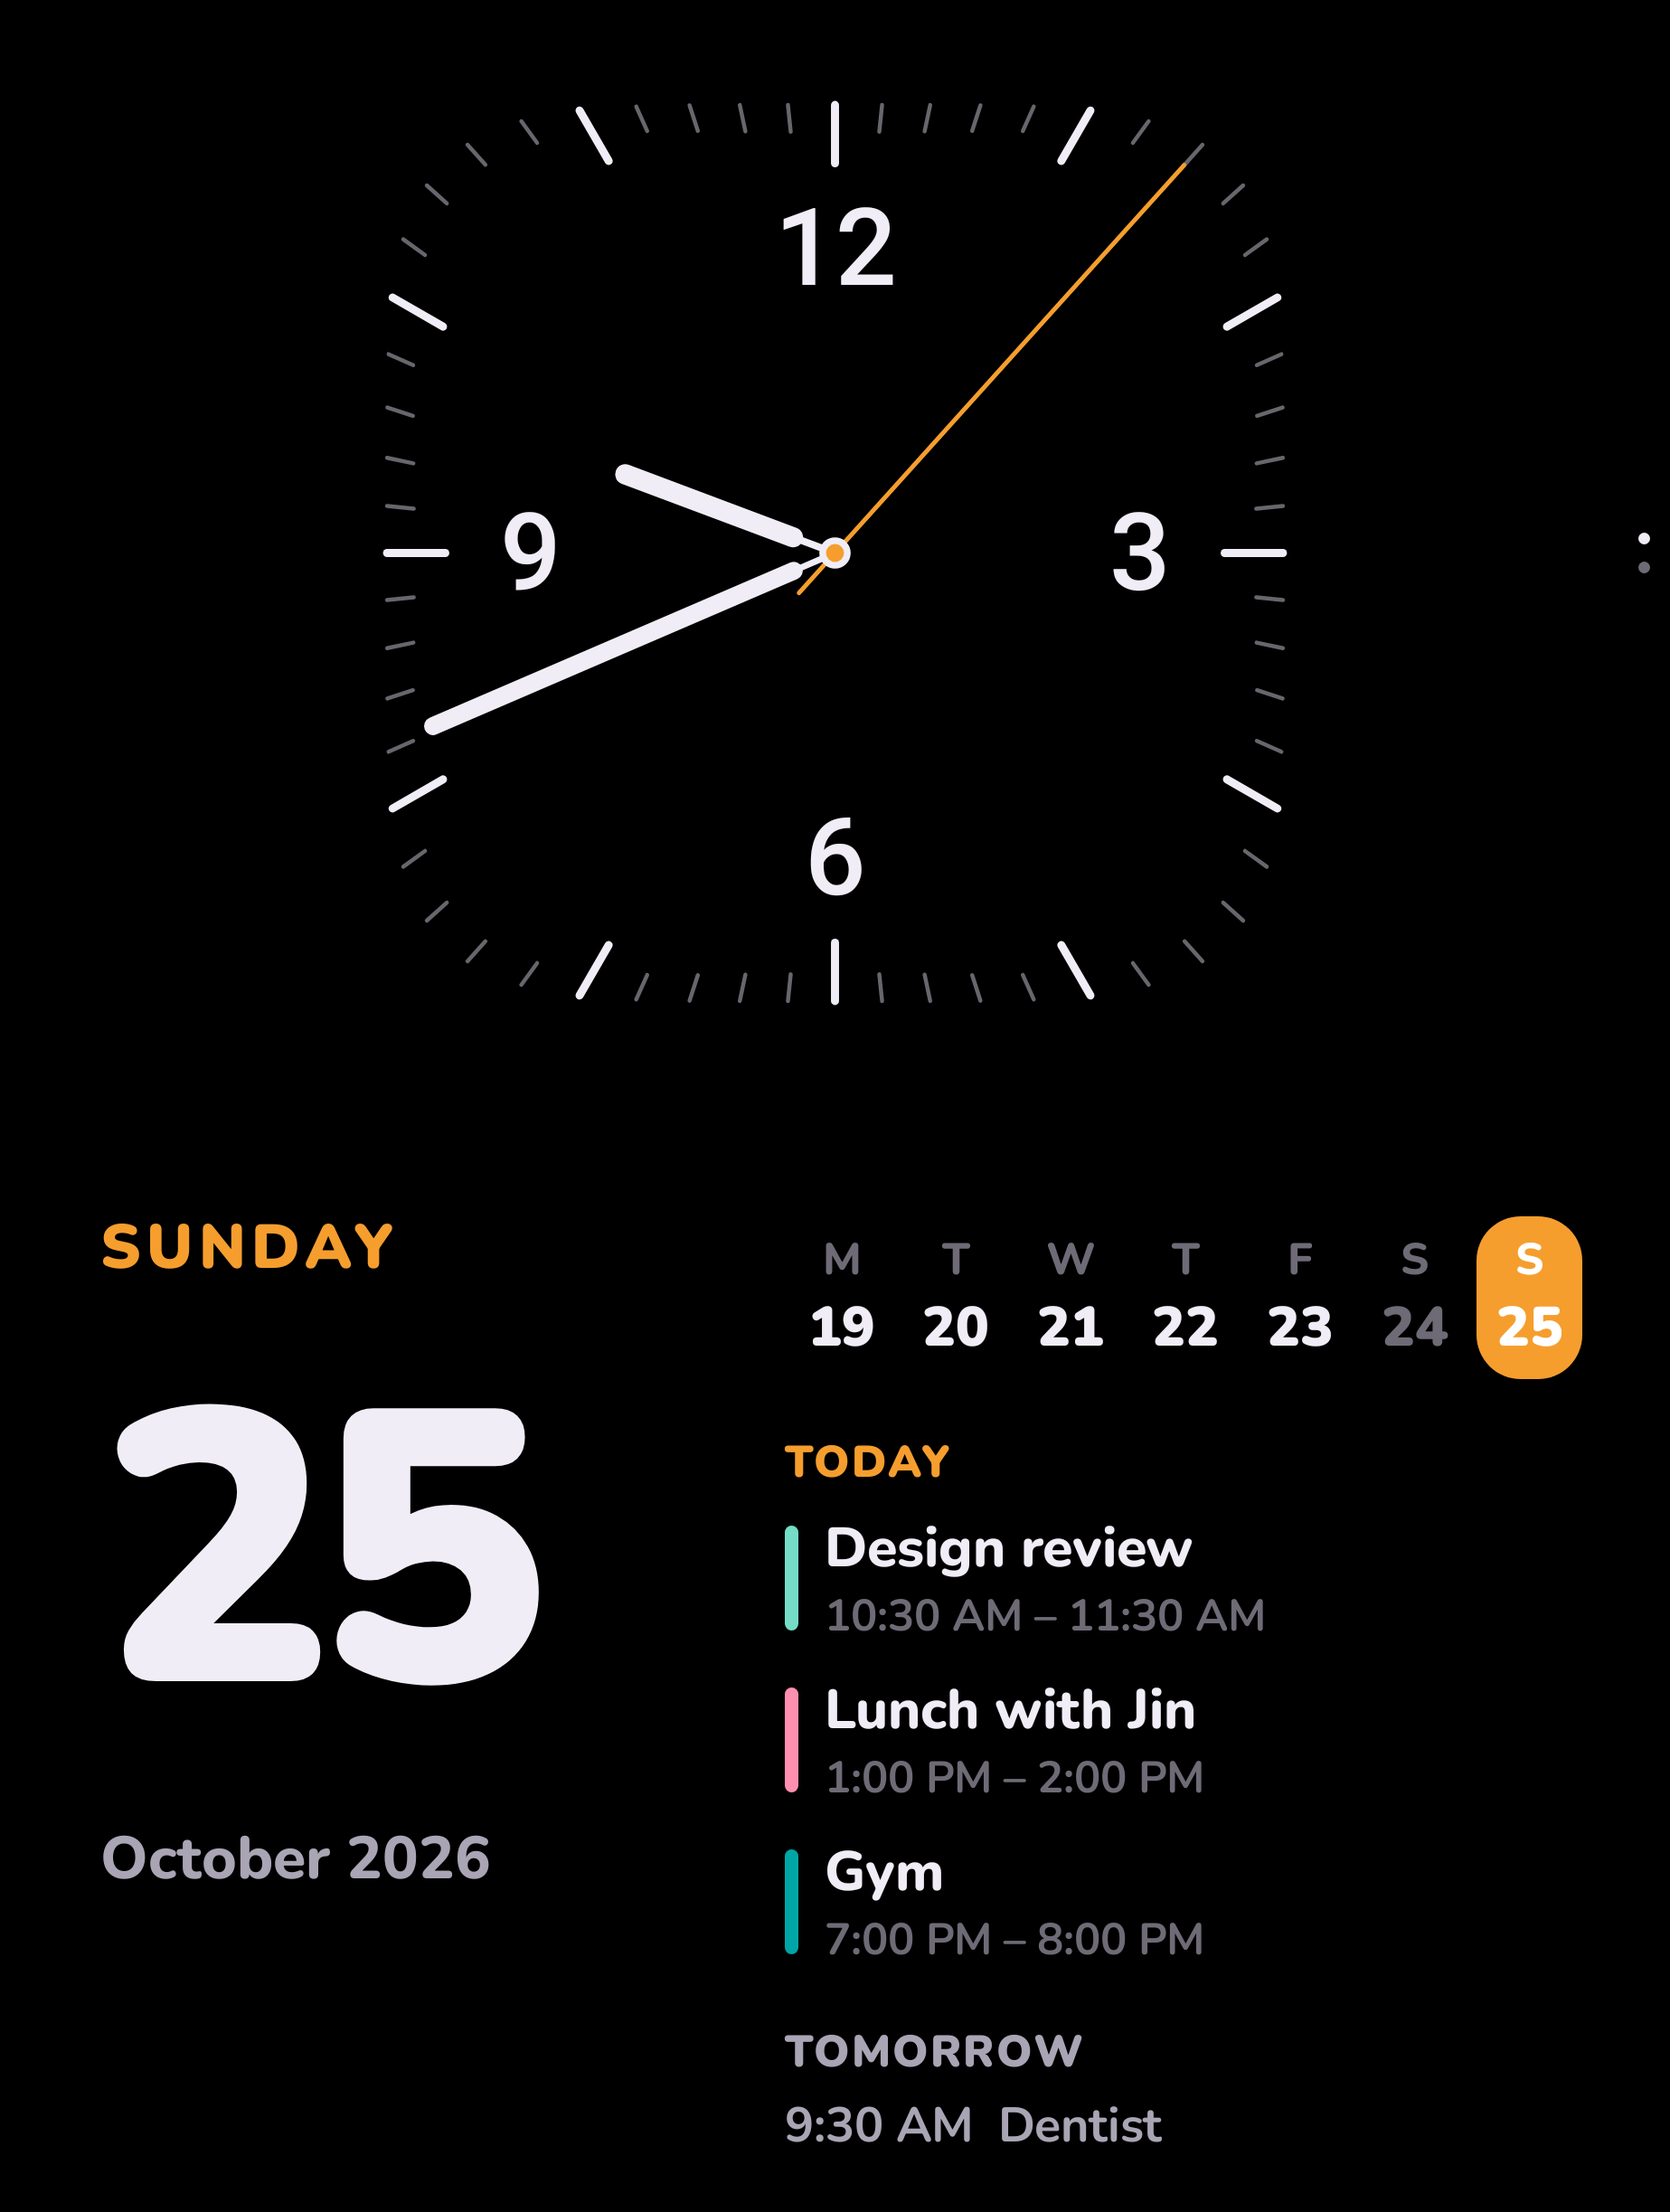
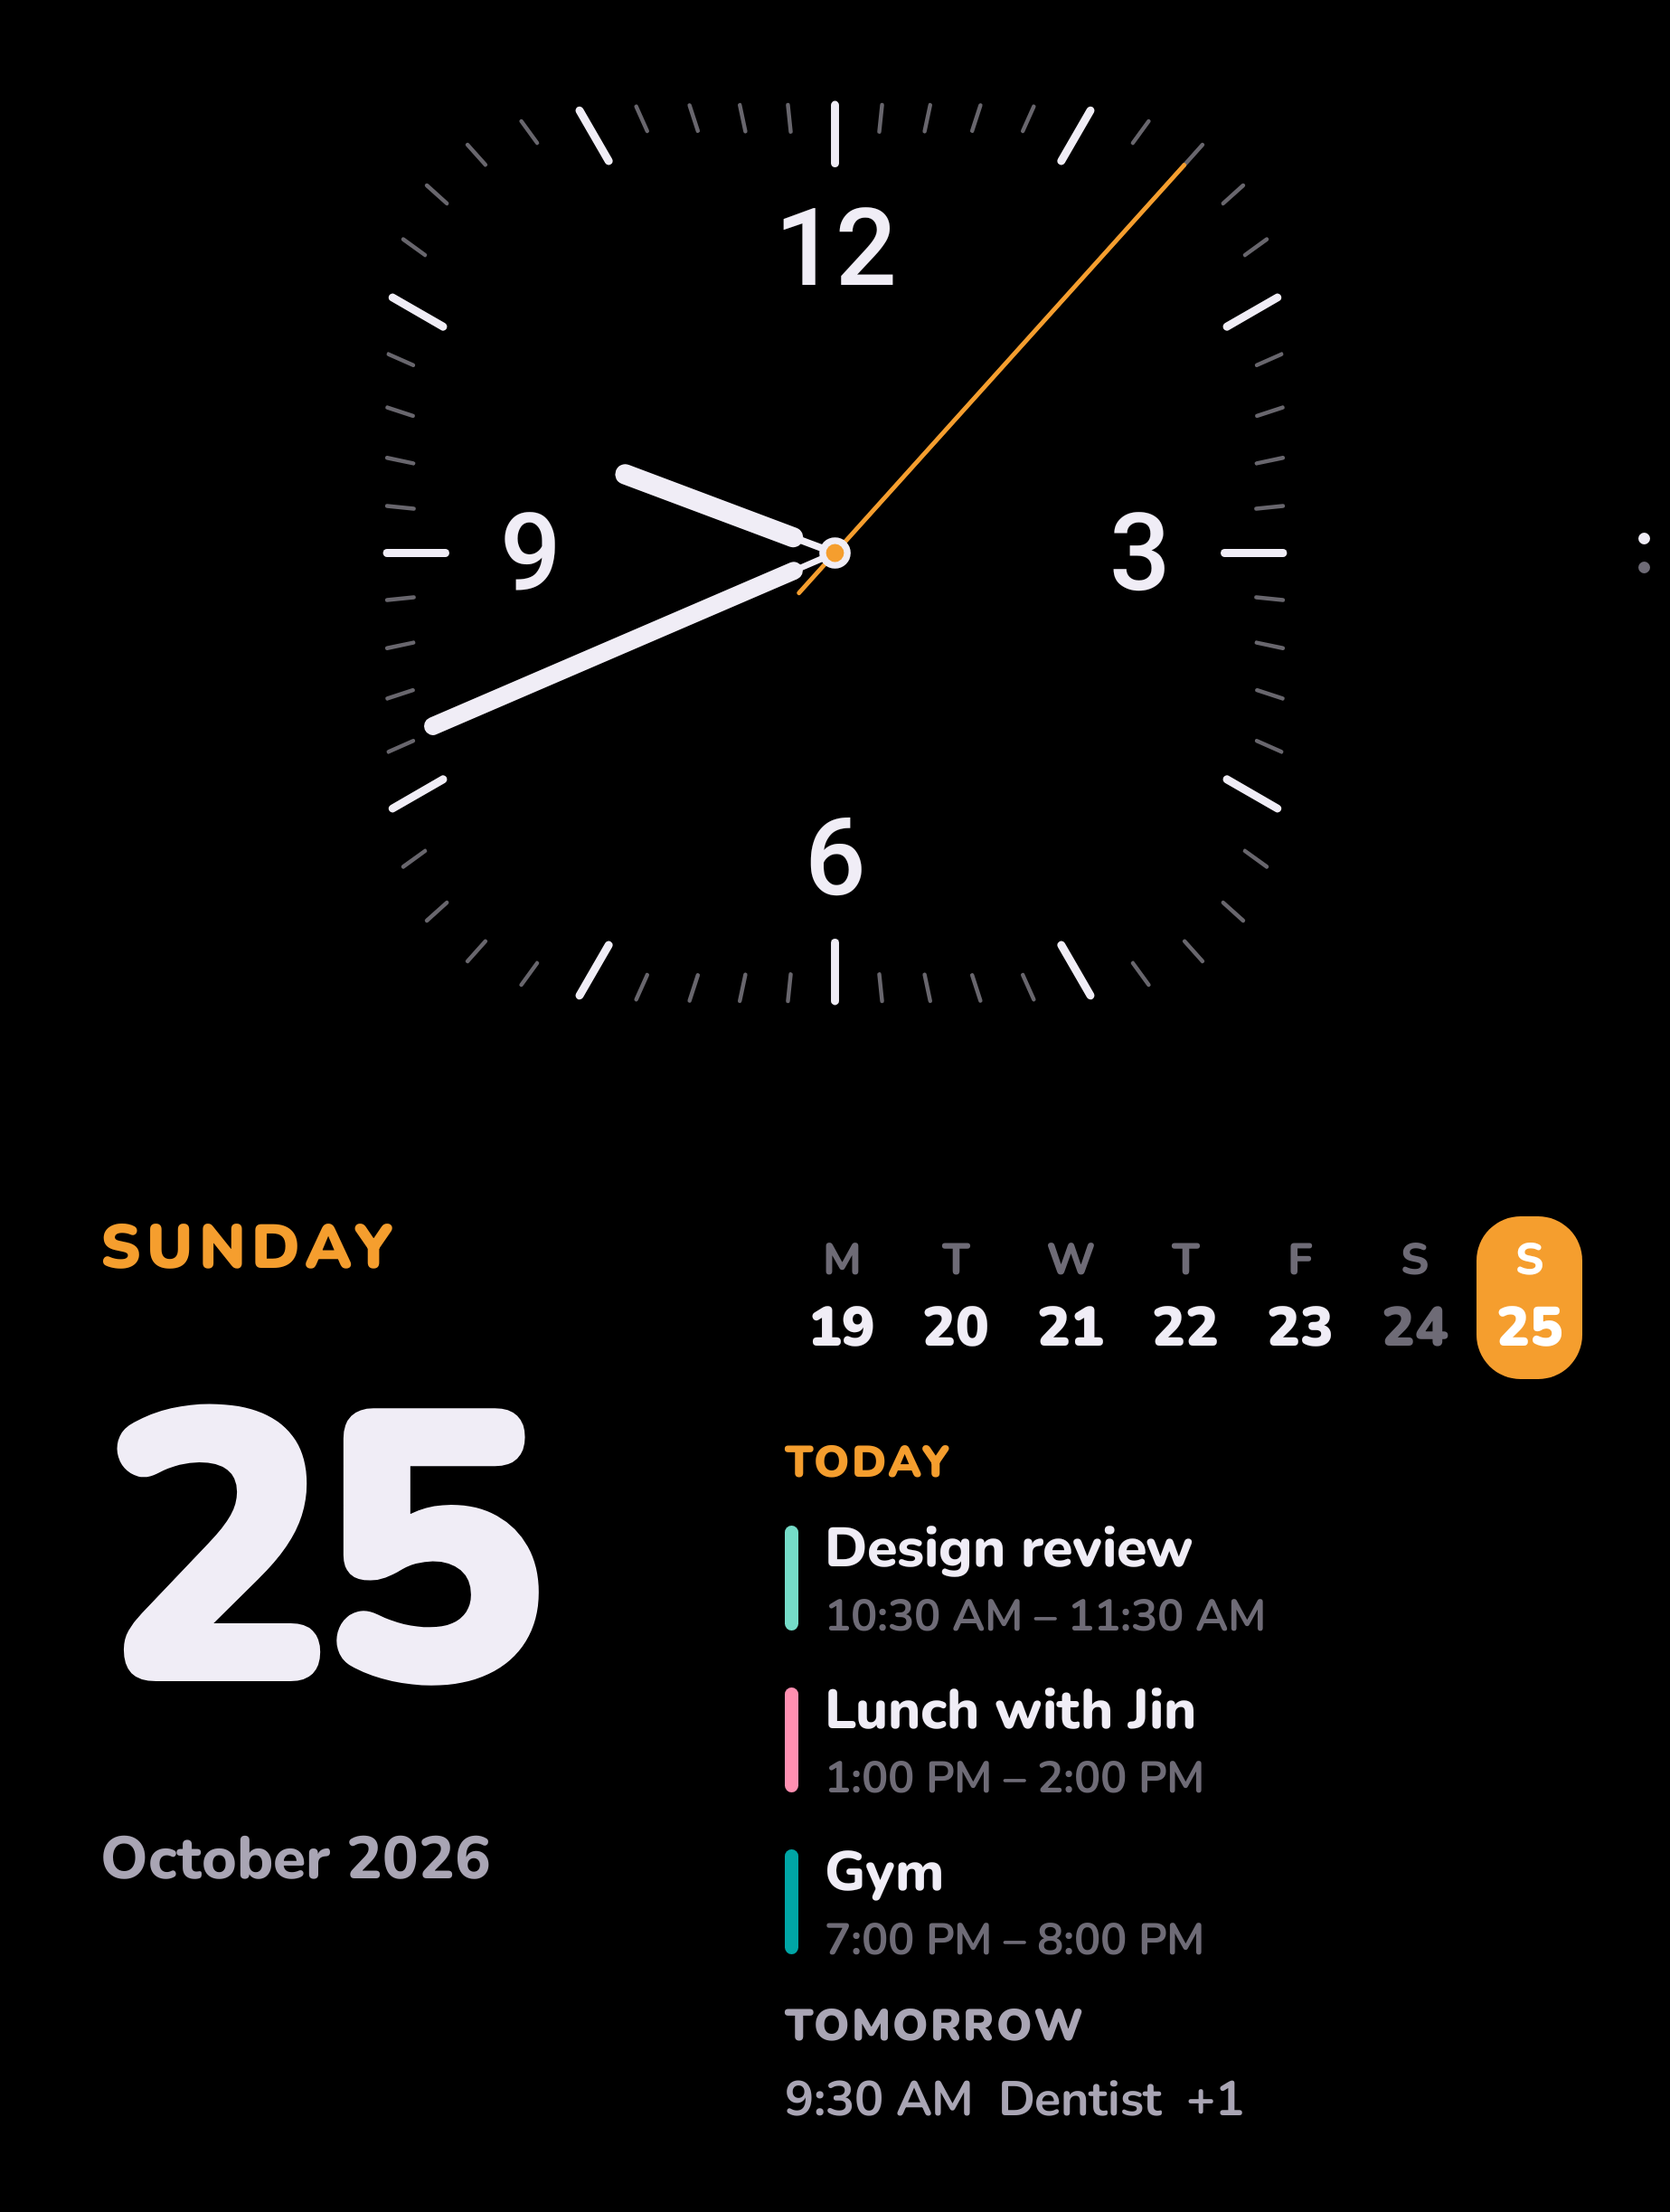
일정 칸: 실제 글꼴 높이로 세어 마지막 줄이 잘리거나 빠지지 않게
- 줄 높이를 글자 크기 × 1.12로 잡았으나 Nunito는 실제 1.36배라 마지막 줄이 화면 밖으로 밀림
- 오늘 일정 우선, 내일은 제목과 한 줄 보장, 못 보여준 일정은 +N(내일은 자리가 없으면 줄 끝에)
- 마지막 일정 뒤 간격 제거, 계산을 fitAgenda로 분리하고 단위 테스트 8개
- 일정이 나오는 화면 스냅숏 7장 갱신

Changed region(s): [[0.4629, 0.9011, 0.7407, 0.9632]]

diff --git a/app/src/main/java/com/marksnd/foldstandby/ui/StyleFaces.kt b/app/src/main/java/com/marksnd/foldstandby/ui/StyleFaces.kt
@@ -243,46 +243,105 @@ private fun ColumnScope.AgendaColumn(today: LocalDate, agenda: AgendaState, s: A
         MonthGrid(today, Modifier.fillMaxWidth().weight(1f))
         return
     }
-    // 남은 높이 안에 들어가게 센다: 내일 칸을 먼저 잡아 두고, 오늘 일정은 남는 만큼만 보여주고 나머지는 +N.
+    // 남은 높이 안에 들어가게 센다. 내일은 제목과 한 줄을 늘 잡아 두고, 남는 높이는 오늘 일정에 먼저 준다.
+    // 못 보여준 일정은 숨기지 않고 +N으로 알린다.
     BoxWithConstraints(Modifier.fillMaxWidth().weight(1f)) {
-        val labelH = s.label * 1.15f
-        val eventH = s.title * 1.12f + s.sub * 1.12f + s.sub * 0.6f
-        val lineH = s.sub * 1.1f * 1.12f + s.sub * 0.25f
-        val moreH = s.sub * 1.12f + s.sub * 0.25f
         val today = timedFirst(agenda.events)
         val tomorrow = timedFirst(agenda.tomorrow)
-        val tShow = minOf(TOMORROW_MAX, tomorrow.size)
-        val tomorrowH = if (tomorrow.isEmpty()) 0f
-        else (s.label * 0.6f + labelH + lineH * tShow + (if (tomorrow.size > tShow) moreH else s.sub * 0f)) / s.sub
-        val roomForToday = (maxHeight - labelH - s.label * 0.4f) / s.sub - tomorrowH
-        var fit = (roomForToday / (eventH / s.sub)).toInt()
-        if (today.size > fit) fit = ((roomForToday - moreH / s.sub) / (eventH / s.sub)).toInt()
-        val todayShow = minOf(today.size, todayMax, fit.coerceAtLeast(1))
+        val fit = fitAgenda(
+            room = maxHeight.value,
+            todayCount = today.size,
+            tomorrowCount = tomorrow.size,
+            todayMax = todayMax,
+            h = AgendaHeights(
+                todayHead = (s.label * ROUNDED_LINE + s.label * 0.4f).value,
+                empty = (s.title * 0.9f * ROUNDED_LINE).value,
+                event = (s.title * ROUNDED_LINE + s.sub * ROUNDED_LINE).value,
+                eventGap = (s.sub * 0.6f).value,
+                more = (s.sub * ROUNDED_LINE + s.sub * 0.25f).value,
+                tomorrowHead = (s.label * 0.6f + s.label * ROUNDED_LINE).value,
+                line = (s.sub * 1.1f * ROUNDED_LINE + s.sub * 0.25f).value,
+            ),
+        )
         Column {
             Label(if (korean) "오늘" else "TODAY", s.label, p.accent, weight = FontWeight.Black, family = Rounded, letterSpacing = 0.06.em)
             Spacer(Modifier.height(s.label * 0.4f))
             if (today.isEmpty()) {
                 Label(if (korean) "남은 일정 없음" else "No more events", s.title * 0.9f, p.dim, weight = FontWeight.ExtraBold, family = Rounded)
             }
-            today.take(todayShow).forEach { e ->
+            today.take(fit.todayShow).forEachIndexed { i, e ->
+                // 일정 사이에만 간격을 둔다(마지막 일정 뒤에는 +N이나 내일 제목이 제 간격을 갖고 온다).
+                if (i > 0) Spacer(Modifier.height(s.sub * 0.6f))
                 EventLine(e, s, korean)
-                Spacer(Modifier.height(s.sub * 0.6f))
             }
-            MoreCount(today.size - todayShow, s, korean)
+            MoreCount(today.size - fit.todayShow, s, korean)
             if (tomorrow.isNotEmpty()) {
                 Spacer(Modifier.height(s.label * 0.6f))
                 Label(if (korean) "내일" else "TOMORROW", s.label, p.secondary, weight = FontWeight.Black, family = Rounded, letterSpacing = 0.06.em)
-                tomorrow.take(tShow).forEach { e ->
+                val hidden = tomorrow.size - fit.tomorrowShow
+                tomorrow.take(fit.tomorrowShow).forEachIndexed { i, e ->
                     val time = if (e.allDay) (if (korean) "종일" else "All day") else eventTime(e.begin, korean)
-                    Label("$time  ${e.title}", s.sub * 1.1f, p.secondary, Modifier.padding(top = s.sub * 0.25f), weight = FontWeight.Bold, family = Rounded)
+                    // +N 줄을 둘 높이가 없으면 마지막 줄 끝에 붙인다.
+                    val inlineMore = if (i == fit.tomorrowShow - 1 && hidden > 0 && !fit.tomorrowMoreLine) "  +$hidden" else ""
+                    Label("$time  ${e.title}$inlineMore", s.sub * 1.1f, p.secondary, Modifier.padding(top = s.sub * 0.25f), weight = FontWeight.Bold, family = Rounded)
                 }
-                MoreCount(tomorrow.size - tShow, s, korean)
+                if (fit.tomorrowMoreLine) MoreCount(hidden, s, korean)
             }
         }
     }
 }
 
+/** 일정 칸 각 부분의 높이(dp). */
+internal data class AgendaHeights(
+    val todayHead: Float,
+    val empty: Float,
+    val event: Float,
+    val eventGap: Float,
+    val more: Float,
+    val tomorrowHead: Float,
+    val line: Float,
+)
+
+/** 오늘 [todayShow]개, 내일 [tomorrowShow]줄을 보여주고, 내일의 나머지는 [tomorrowMoreLine]이면 따로 한 줄, 아니면 마지막 줄 끝에 +N. */
+internal data class AgendaFit(val todayShow: Int, val tomorrowShow: Int, val tomorrowMoreLine: Boolean)
+
+/**
+ * [room] 높이 안에 들어갈 만큼 센다.
+ * 1. 내일 일정이 있으면 내일 제목과 한 줄을 먼저 잡는다.
+ * 2. 남는 높이를 오늘 일정에 준다(최대 [todayMax]개). 다 못 보여주면 +N 줄 자리도 뺀다. 오늘 일정이 있으면 적어도 하나는 보여준다.
+ * 3. 그래도 남으면 내일 둘째 줄([TOMORROW_MAX]까지), 그다음 내일 +N 줄.
+ */
+internal fun fitAgenda(room: Float, todayCount: Int, tomorrowCount: Int, todayMax: Int, h: AgendaHeights): AgendaFit {
+    var left = room - h.todayHead
+    if (tomorrowCount > 0) left -= h.tomorrowHead + h.line
+    var todayShow = 0
+    if (todayCount == 0) {
+        left -= h.empty
+    } else {
+        val limit = minOf(todayCount, todayMax)
+        // n개는 일정 n개 + 사이 간격 n-1개
+        fun fits(space: Float) = ((space + h.eventGap) / (h.event + h.eventGap)).toInt().coerceAtLeast(0)
+        todayShow = minOf(limit, fits(left))
+        if (todayShow < todayCount) todayShow = minOf(todayShow, fits(left - h.more))
+        todayShow = todayShow.coerceAtLeast(1)
+        left -= h.event * todayShow + h.eventGap * (todayShow - 1) + if (todayShow < todayCount) h.more else 0f
+    }
+    var tomorrowShow = if (tomorrowCount > 0) 1 else 0
+    while (tomorrowShow < minOf(TOMORROW_MAX, tomorrowCount) && left >= h.line) {
+        left -= h.line
+        tomorrowShow++
+    }
+    val moreLine = tomorrowCount > tomorrowShow && left >= h.more
+    return AgendaFit(todayShow, tomorrowShow, moreLine)
+}
+
 private const val TOMORROW_MAX = 2
+
+/**
+ * 둥근 글꼴(Nunito) 한 줄이 실제로 차지하는 높이 ÷ 글자 크기. Label의 줄 높이(1.12)보다 글꼴 자체 높이
+ * (ascent 1.011 + descent 0.353)가 커서 글꼴 높이를 따른다. 화면 스냅숏에서 잰 값 1.36에 여유를 조금 둔다.
+ */
+private const val ROUNDED_LINE = 1.37f
 
 /** 시간이 있는 일정을 시작 순으로 먼저, 종일 일정은 뒤로. 종일 일정이 많아도 약속이 밀려나지 않게. */
 private fun timedFirst(events: List<AgendaEvent>) = events.sortedWith(compareBy({ it.allDay }, { it.begin }))

diff --git a/app/src/test/java/com/marksnd/foldstandby/ui/AgendaFitTest.kt b/app/src/test/java/com/marksnd/foldstandby/ui/AgendaFitTest.kt
@@ -1,0 +1,38 @@
+package com.marksnd.foldstandby.ui
+
+import org.junit.Assert.assertEquals
+import org.junit.Test
+
+class AgendaFitTest {
+    // 쉬운 셈을 위해 단위 높이: 오늘 제목 10, 일정 18 + 사이 간격 2(일정 n개 = 20n - 2), +N 5, 내일 제목 10, 내일 한 줄 8, 빈 오늘 10
+    private val h = AgendaHeights(todayHead = 10f, empty = 10f, event = 18f, eventGap = 2f, more = 5f, tomorrowHead = 10f, line = 8f)
+
+    @Test fun everythingFits() =
+        assertEquals(AgendaFit(3, 2, false), fitAgenda(100f, 3, 2, 4, h)) // 10 + 58 + 10 + 16 = 94
+
+    @Test fun todayComesBeforeTomorrowsSecondLine() =
+        // 10 + 10 + 8 = 28 잡고 남은 60: 오늘 3개(58), 내일 둘째 줄 자리 없음 → 마지막 줄 끝에 +1
+        assertEquals(AgendaFit(3, 1, false), fitAgenda(88f, 3, 2, 4, h))
+
+    @Test fun noGapAfterLastEvent() =
+        // 남은 58이면 사이 간격만 세어 오늘 3개가 딱 들어간다
+        assertEquals(AgendaFit(3, 1, false), fitAgenda(86f, 3, 2, 4, h))
+
+    @Test fun hiddenTodayLeavesRoomForMoreLine() =
+        // 28 잡고 남은 42: 오늘 2개(38)에 +N 줄(5)까지는 안 들어가므로 1개 + "+2 more", 남은 19로 내일 둘째 줄
+        assertEquals(AgendaFit(1, 2, false), fitAgenda(70f, 3, 2, 4, h))
+
+    @Test fun tomorrowMoreLineWhenRoomLeft() =
+        // 오늘 1개(18) 뒤 남은 54: 내일 둘째 줄(8) 다음 +N 줄(5)
+        assertEquals(AgendaFit(1, 2, true), fitAgenda(100f, 1, 4, 4, h))
+
+    @Test fun atLeastOneTodayEvent() =
+        assertEquals(AgendaFit(1, 1, false), fitAgenda(30f, 3, 3, 4, h))
+
+    @Test fun noTomorrow() =
+        assertEquals(AgendaFit(4, 0, false), fitAgenda(200f, 6, 0, 4, h))
+
+    @Test fun noTodayEvents() =
+        // 10 + 10(빈 오늘) + 10 + 8 = 38, 남은 12에 둘째 줄(8), 남은 4라 +N 줄은 안 됨
+        assertEquals(AgendaFit(0, 2, false), fitAgenda(50f, 0, 3, 4, h))
+}
